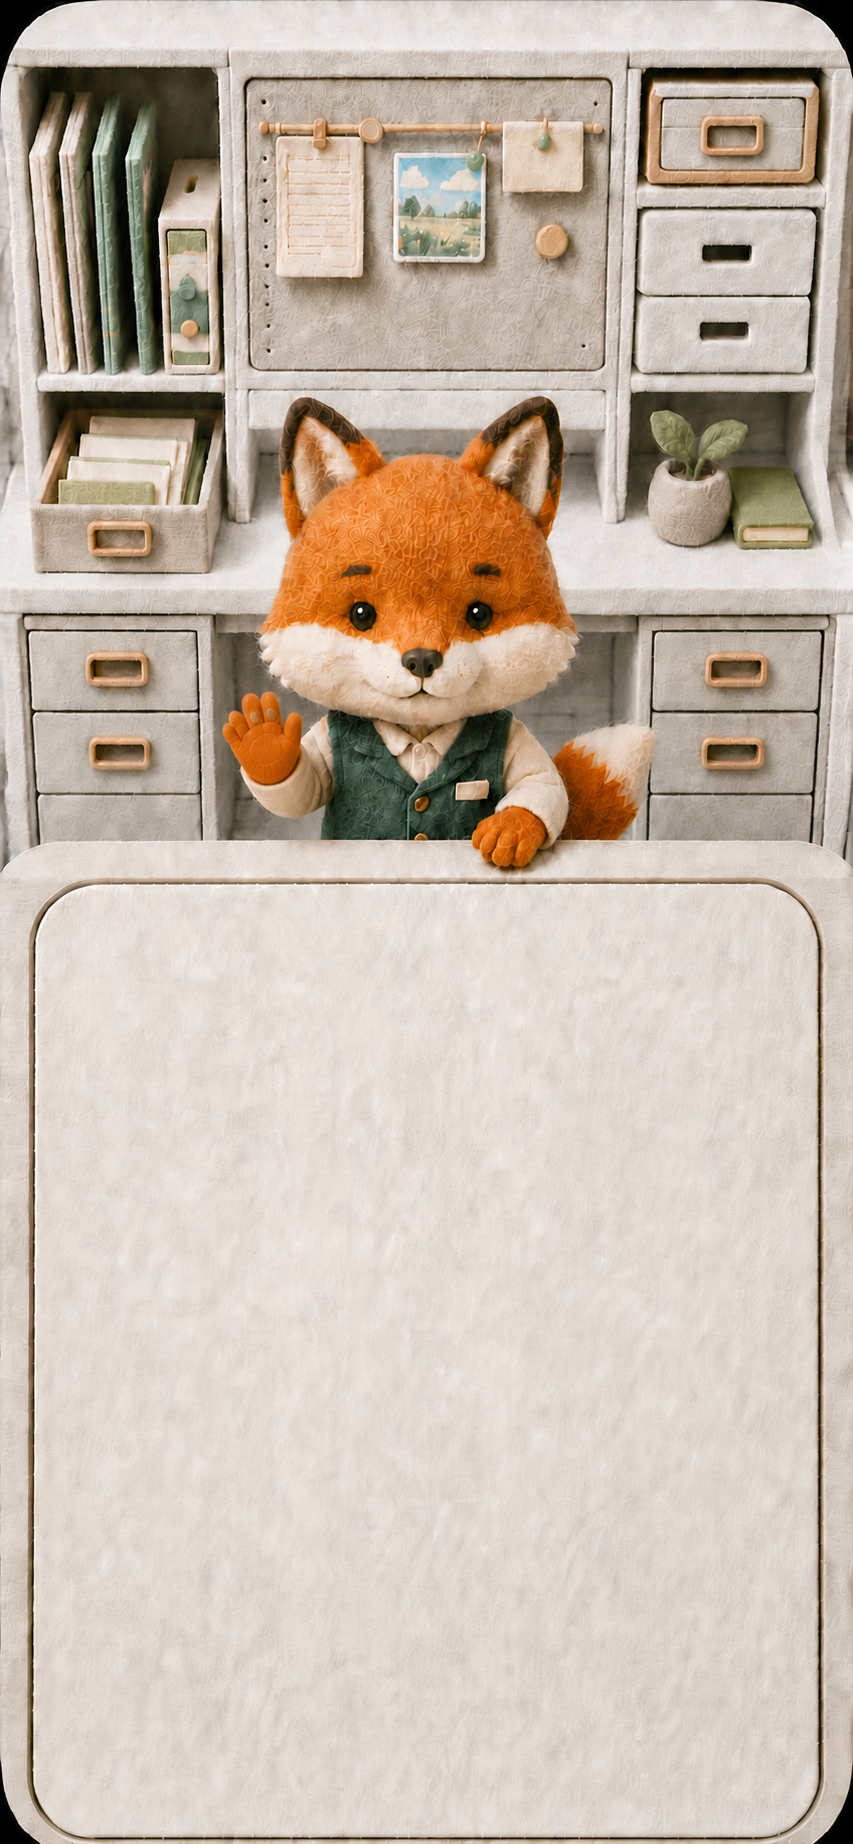
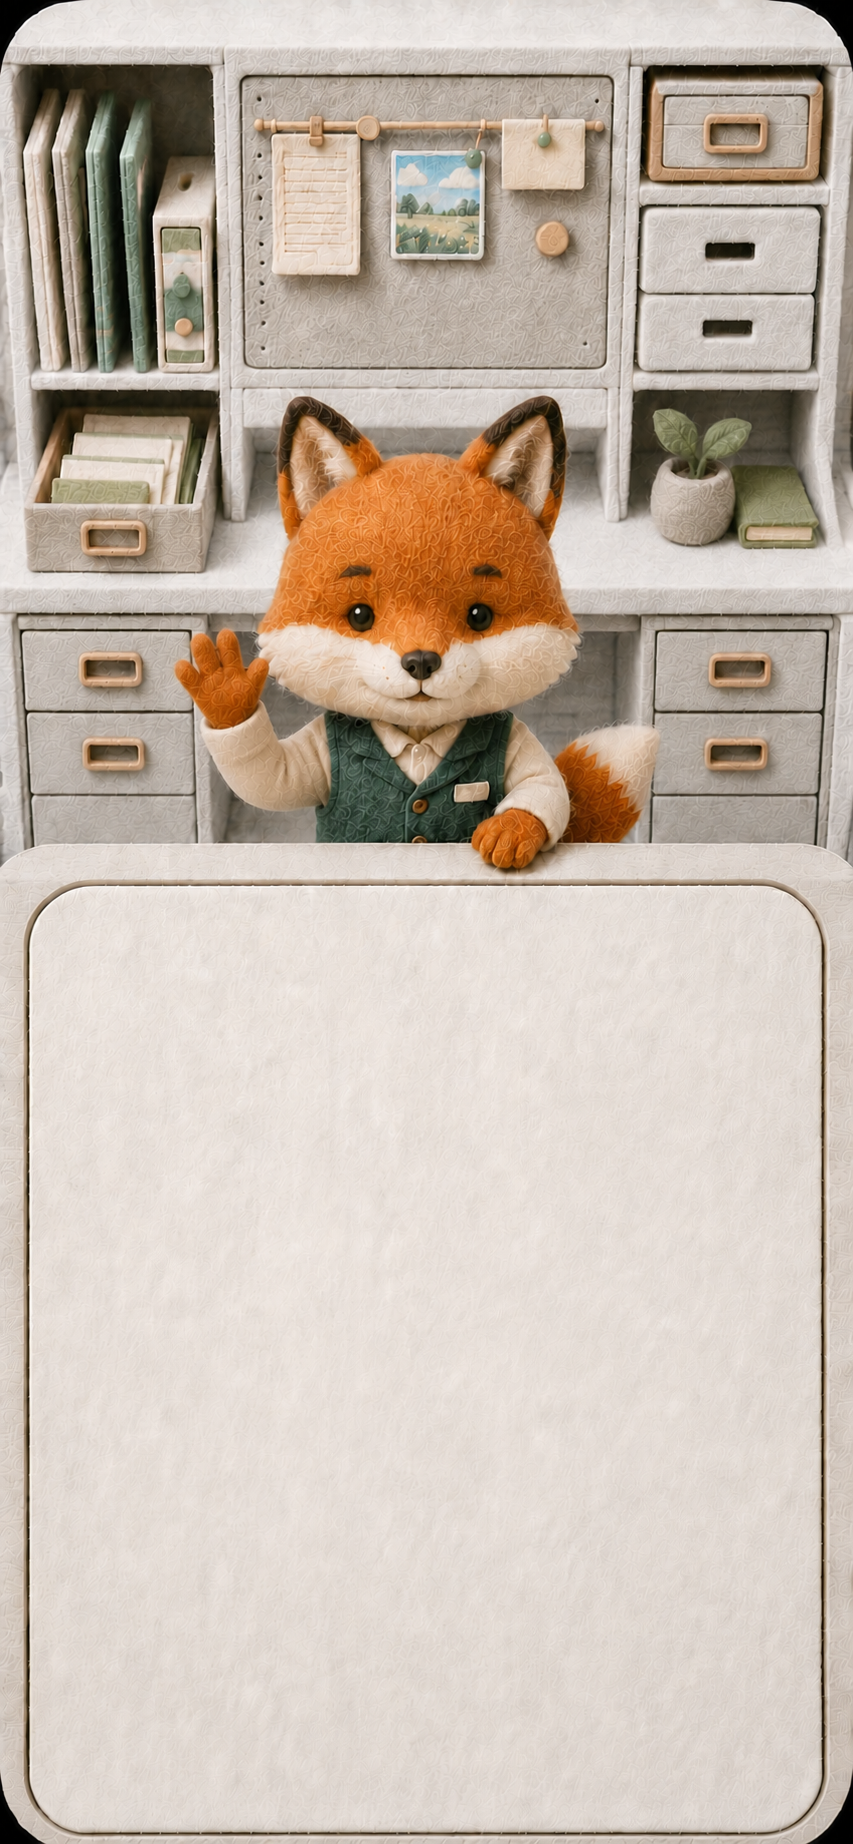
fix: smooth fox welcome animation and idle transitions

diff --git a/apps/miniprogram/miniprogram/lib/fox-animation-controller.ts b/apps/miniprogram/miniprogram/lib/fox-animation-controller.ts
@@ -1,6 +1,7 @@
 export const FOX_ACTION_ORDER = ['blink', 'talk', 'wave'] as const;
 
 export type FoxActionId = (typeof FOX_ACTION_ORDER)[number];
+export type FoxAnimationPhase = 'welcome' | 'idle' | 'action';
 
 export interface FoxAnimationClip {
   id: FoxActionId;
@@ -16,7 +17,7 @@ export interface FoxAnimationState {
   action: FoxAnimationClip;
   frame: number;
   playing: boolean;
-  autoCycle: boolean;
+  phase: FoxAnimationPhase;
 }
 
 export const FOX_ANIMATION_CLIPS: Record<FoxActionId, FoxAnimationClip> = {
@@ -42,62 +43,46 @@ export const FOX_ANIMATION_CLIPS: Record<FoxActionId, FoxAnimationClip> = {
     id: 'wave',
     name: '挥手',
     src: '/assets/animations/fox-clerk/wave.webp',
-    frameCount: 12,
+    frameCount: 15,
     columns: 4,
-    rows: 3,
+    rows: 4,
     fps: 5,
   },
 };
 
 type StateListener = (state: FoxAnimationState) => void;
 
-const ACTION_TRANSITION_PAUSE_MS = 420;
+const IDLE_BLINK_MIN_DELAY_MS = 18_000;
+const IDLE_BLINK_MAX_DELAY_MS = 35_000;
 
 /**
- * Owns which visual state is shown on the character screen.
+ * Drives the character's ambient behavior.
  *
- * The current policy cycles blink -> talk -> wave. Call `playAction` later
- * from an Agent event, voice state, or business state to take manual control.
+ * The default policy is a one-time welcome wave, a still neutral pose, and an
+ * occasional blink. Agent or voice events can call `playAction` at any time;
+ * after that one-shot action finishes, the fox returns to the same idle pose.
  */
 export class FoxAnimationController {
-  private actionIndex = 0;
+  private actionId: FoxActionId = 'wave';
   private frame = 0;
   private playing = false;
-  private autoCycle = true;
+  private phase: FoxAnimationPhase = 'welcome';
   private suspended = false;
   private timer: number | undefined;
 
   constructor(private readonly listener: StateListener) {}
 
+  startWelcomeSequence(): void {
+    this.startOneShot('wave', 'welcome');
+  }
+
+  /** Backward-compatible page entry; the behavior is no longer a cycle. */
   startAutoCycle(): void {
-    this.stopTimer();
-    this.autoCycle = true;
-    this.playing = true;
-    this.actionIndex = 0;
-    this.frame = 0;
-    this.emit();
-    this.scheduleNextFrame();
+    this.startWelcomeSequence();
   }
 
   playAction(action: FoxActionId): void {
-    this.stopTimer();
-    this.autoCycle = false;
-    this.playing = true;
-    this.actionIndex = FOX_ACTION_ORDER.indexOf(action);
-    this.frame = 0;
-    this.emit();
-    this.scheduleNextFrame();
-  }
-
-  togglePlayback(): void {
-    if (this.playing) {
-      this.pause();
-      return;
-    }
-
-    this.playing = true;
-    this.emit();
-    this.scheduleNextFrame();
+    this.startOneShot(action, 'action');
   }
 
   pause(): void {
@@ -113,7 +98,9 @@ export class FoxAnimationController {
 
   resume(): void {
     this.suspended = false;
-    if (this.playing && this.timer === undefined) this.scheduleNextFrame();
+    if (!this.playing || this.timer !== undefined) return;
+    if (this.phase === 'idle') this.scheduleIdleBlink();
+    else this.scheduleNextFrame();
   }
 
   destroy(): void {
@@ -122,16 +109,26 @@ export class FoxAnimationController {
   }
 
   private get clip(): FoxAnimationClip {
-    const actionId = FOX_ACTION_ORDER[this.actionIndex] ?? FOX_ACTION_ORDER[0];
-    return FOX_ANIMATION_CLIPS[actionId];
+    return FOX_ANIMATION_CLIPS[this.actionId];
   }
 
-  private scheduleNextFrame(delayMs = 1000 / this.clip.fps): void {
+  private startOneShot(action: FoxActionId, phase: FoxAnimationPhase): void {
+    this.stopTimer();
+    this.actionId = action;
+    this.frame = 0;
+    this.phase = phase;
+    this.playing = true;
+    this.emit();
+    this.scheduleNextFrame();
+  }
+
+  private scheduleNextFrame(): void {
     if (!this.playing || this.suspended) return;
-    this.timer = setTimeout(() => this.advance(), delayMs);
+    this.timer = setTimeout(() => this.advance(), 1000 / this.clip.fps);
   }
 
   private advance(): void {
+    this.timer = undefined;
     this.frame += 1;
 
     if (this.frame < this.clip.frameCount) {
@@ -140,16 +137,25 @@ export class FoxAnimationController {
       return;
     }
 
-    this.frame = 0;
-    if (this.autoCycle) {
-      this.actionIndex = (this.actionIndex + 1) % FOX_ACTION_ORDER.length;
-      this.emit();
-      this.scheduleNextFrame(ACTION_TRANSITION_PAUSE_MS);
-      return;
-    }
+    this.settleIdle();
+  }
 
+  private settleIdle(): void {
+    this.actionId = 'blink';
+    this.frame = 0;
+    this.phase = 'idle';
     this.emit();
-    this.scheduleNextFrame();
+    this.scheduleIdleBlink();
+  }
+
+  private scheduleIdleBlink(): void {
+    if (!this.playing || this.suspended) return;
+    const delay = IDLE_BLINK_MIN_DELAY_MS
+      + Math.random() * (IDLE_BLINK_MAX_DELAY_MS - IDLE_BLINK_MIN_DELAY_MS);
+    this.timer = setTimeout(() => {
+      this.timer = undefined;
+      this.startOneShot('blink', 'action');
+    }, delay);
   }
 
   private emit(): void {
@@ -157,7 +163,7 @@ export class FoxAnimationController {
       action: this.clip,
       frame: this.frame,
       playing: this.playing,
-      autoCycle: this.autoCycle,
+      phase: this.phase,
     });
   }
 

diff --git a/apps/miniprogram/miniprogram/pages/character/index.ts b/apps/miniprogram/miniprogram/pages/character/index.ts
@@ -14,11 +14,16 @@ Page({
   data: {
     environmentSrc: ENVIRONMENT_SRC,
     innerPanelSrc: INNER_PANEL_SRC,
-    spriteSrc: FOX_ANIMATION_CLIPS.blink.src,
-    sheetWidthPercent: FOX_ANIMATION_CLIPS.blink.columns * 100,
-    sheetHeightPercent: FOX_ANIMATION_CLIPS.blink.rows * 100,
-    sheetLeftPercent: 0,
-    sheetTopPercent: 0,
+    blinkSrc: FOX_ANIMATION_CLIPS.blink.src,
+    talkSrc: FOX_ANIMATION_CLIPS.talk.src,
+    waveSrc: FOX_ANIMATION_CLIPS.wave.src,
+    activeAction: 'wave' as FoxActionId,
+    blinkLeftPercent: 0,
+    blinkTopPercent: 0,
+    talkLeftPercent: 0,
+    talkTopPercent: 0,
+    waveLeftPercent: 0,
+    waveTopPercent: 0,
   },
 
   onLoad(): void {
@@ -43,11 +48,9 @@ Page({
     const column = state.frame % state.action.columns;
     const row = Math.floor(state.frame / state.action.columns);
     this.setData({
-      spriteSrc: state.action.src,
-      sheetWidthPercent: state.action.columns * 100,
-      sheetHeightPercent: state.action.rows * 100,
-      sheetLeftPercent: column * -100,
-      sheetTopPercent: row * -100,
+      activeAction: state.action.id,
+      [`${state.action.id}LeftPercent`]: column * -100,
+      [`${state.action.id}TopPercent`]: row * -100,
     });
   },
 

diff --git a/apps/miniprogram/tools/fox-clerk-stop-motion/build_sprites.py b/apps/miniprogram/tools/fox-clerk-stop-motion/build_sprites.py
@@ -4,7 +4,7 @@ from pathlib import Path
 import json
 import math
 
-from PIL import Image, ImageDraw, ImageFilter, ImageStat
+from PIL import Image, ImageChops, ImageDraw, ImageFilter, ImageStat
 
 
 HERE = Path(__file__).resolve().parent
@@ -53,17 +53,40 @@ def actor_mask(size: tuple[int, int], pose: str) -> Image.Image:
 
     if pose.startswith("wave"):
         # Each complete generated frame has its own full-character silhouette.
-        raised_arm = [
-            (326, 714), (294, 684), (255, 678), (218, 686), (184, 704),
-            (176, 744), (184, 783), (214, 817), (263, 839), (306, 826),
-            (332, 790), (337, 750),
-        ] if pose == "wave-left" else [
-            (319, 719), (300, 695), (283, 685), (267, 688), (248, 704),
-            (229, 716), (220, 741), (225, 774), (240, 807), (264, 824),
-            (294, 819), (318, 794), (330, 759),
-        ]
-        draw.polygon(points(raised_arm), fill=255)
-        hand_box = [(176, 678), (307, 790)] if pose == "wave-left" else [(219, 682), (307, 775)]
+        raised_arms = {
+            "wave-rise": [
+                (332, 714), (305, 718), (278, 733), (258, 742), (271, 719),
+                (275, 690), (258, 671), (235, 671), (220, 686), (202, 678),
+                (185, 697), (183, 730), (198, 756), (219, 768), (227, 797),
+                (250, 818), (282, 819), (311, 796), (330, 760),
+            ],
+            "wave-left": [
+            (331, 710), (298, 693), (260, 696), (230, 690), (241, 665),
+            (238, 625), (220, 609), (202, 620), (185, 598), (159, 590),
+            (142, 612), (140, 651), (162, 686), (185, 700), (198, 738),
+            (218, 772), (252, 787), (286, 772), (309, 745),
+            ],
+            "wave-right": [
+            (331, 716), (305, 704), (278, 704), (262, 697), (269, 674),
+            (257, 642), (236, 631), (214, 638), (192, 628), (177, 644),
+            (176, 678), (189, 706), (207, 720), (211, 756), (229, 788),
+            (260, 805), (292, 792), (315, 761),
+            ],
+            "wave-lower": [
+                (331, 716), (310, 723), (288, 743), (280, 735), (292, 714),
+                (282, 696), (257, 702), (244, 716), (224, 711), (207, 726),
+                (205, 756), (220, 781), (240, 791), (249, 814), (276, 829),
+                (306, 818), (328, 787),
+            ],
+        }
+        hand_boxes = {
+            "wave-rise": [(179, 665), (282, 795)],
+            "wave-left": [(136, 585), (245, 710)],
+            "wave-right": [(172, 624), (273, 735)],
+            "wave-lower": [(200, 695), (300, 815)],
+        }
+        draw.polygon(points(raised_arms[pose]), fill=255)
+        hand_box = hand_boxes[pose]
         draw.ellipse((*points(hand_box)[0], *points(hand_box)[1]), fill=255)
 
     # Outer board layer. The fixed inner panel is punched out below.
@@ -82,6 +105,25 @@ def actor_frame(image: Image.Image, pose: str) -> Image.Image:
     result = image.copy()
     result.putalpha(actor_mask(image.size, pose))
     return result
+
+
+def keep_only_wave_motion(image: Image.Image, reference: Image.Image, pose: str) -> Image.Image:
+    """Lock the face, body, and board while retaining the generated moving arm."""
+    size = image.size
+    sx, sy = size[0] / 853, size[1] / 1844
+
+    # The raised appendage lives outside the neutral silhouette. The shoulder
+    # patch also replaces the original resting paw so it cannot appear twice.
+    raised_appendage = ImageChops.subtract(actor_mask(size, pose), actor_mask(size, "neutral"))
+    shoulder_patch = Image.new("L", size)
+    ImageDraw.Draw(shoulder_patch).rounded_rectangle(
+        (round(235 * sx), round(695 * sy), round(390 * sx), round(880 * sy)),
+        radius=round(46 * sx),
+        fill=255,
+    )
+    motion_mask = ImageChops.lighter(raised_appendage, shoulder_patch)
+    motion_mask = motion_mask.filter(ImageFilter.GaussianBlur(round(5 * sx)))
+    return Image.composite(image, reference, motion_mask)
 
 
 def keep_only_mouth(image: Image.Image, reference: Image.Image) -> Image.Image:
@@ -133,7 +175,7 @@ def write_sheet(frames: list[Image.Image], action: str, columns: int = 4) -> dic
         "description": {
             "blink": "狐狸层切换睁眼、半闭和闭眼姿态；环境与白框保持静止",
             "talk": "整张狐狸与板子完全固定，只切换嘴部口型，消除脸部纹理闪动",
-            "wave": "完整全画幅姿态统一曝光后慢速摆动；四指纯橙色毛毡手保持不变",
+            "wave": "固定狐狸身体与板子，仅让四指纯橙色毛毡手臂完成抬手、慢速摆动和收手",
         }[action],
         "src": f"/animations/fox-clerk/{action}.webp",
         "frameCount": len(frames),
@@ -156,8 +198,18 @@ def main() -> None:
         "blink-closed": normalized_image("blink-closed.png", size),
         "talk-quiet": keep_only_mouth(normalized_image("talk-quiet.png", size), neutral),
         "talk-a": keep_only_mouth(normalized_image("talk-a.png", size), neutral),
-        "wave-left": match_full_frame_lighting(normalized_image("wave-left.png", size), neutral),
-        "wave-right": match_full_frame_lighting(normalized_image("wave-right.png", size), neutral),
+        "wave-rise": keep_only_wave_motion(
+            match_full_frame_lighting(normalized_image("wave-rise.png", size), neutral), neutral, "wave-rise",
+        ),
+        "wave-left": keep_only_wave_motion(
+            match_full_frame_lighting(normalized_image("wave-left.png", size), neutral), neutral, "wave-left",
+        ),
+        "wave-right": keep_only_wave_motion(
+            match_full_frame_lighting(normalized_image("wave-right.png", size), neutral), neutral, "wave-right",
+        ),
+        "wave-lower": keep_only_wave_motion(
+            match_full_frame_lighting(normalized_image("wave-lower.png", size), neutral), neutral, "wave-lower",
+        ),
     }
     actor = {name: actor_frame(image, name) for name, image in poses.items()}
 
@@ -180,10 +232,13 @@ def main() -> None:
         actor["talk-a"], actor["talk-quiet"], actor["neutral"], actor["neutral"], actor["neutral"],
     ]
     wave_frames = [
+        actor["wave-rise"],
         actor["wave-left"], actor["wave-left"], actor["wave-left"],
         actor["wave-right"], actor["wave-right"], actor["wave-right"],
         actor["wave-left"], actor["wave-left"], actor["wave-left"],
         actor["wave-right"], actor["wave-right"], actor["wave-right"],
+        actor["wave-lower"],
+        actor["neutral"],
     ]
 
     animations = [
@@ -192,7 +247,7 @@ def main() -> None:
         write_sheet(wave_frames, "wave"),
     ]
     manifest = {
-        "version": 3,
+        "version": 6,
         "character": "fox-clerk",
         "style": "needle-felt stop-motion",
         "frameMode": "three-layer",
@@ -202,7 +257,8 @@ def main() -> None:
             "actorBoard": {"name": "狐狸 + 外板", "kind": "animated-sprite"},
             "innerPanel": {"name": "内层白框", "src": "/animations/fox-clerk/inner-panel.webp"},
         },
-        "backgroundPolicy": "背景环境、狐狸 + 外板、内层白框使用同尺寸画布独立叠放；白框永远保持固定坐标",
+        "backgroundPolicy": "背景环境、固定狐狸身体 + 外板、运动手臂、内层白框使用锁定画布叠放；白框永远保持固定坐标",
+        "playbackPolicy": "首次进入播放一次挥手问候，随后保持静止，并以较长随机间隔偶发眨眼",
         "animations": animations,
     }
     (OUTPUT / "manifest.json").write_text(

diff --git a/README.md b/README.md
@@ -38,7 +38,7 @@ API 默认监听 `http://127.0.0.1:3000`：
 - `GET /api/v1/health`：健康检查
 - `POST /api/v1/chat/completions`：等待模型完成后返回完整回复
 
-将 `apps/miniprogram` 导入微信开发者工具即可运行小程序。默认首页是全屏狐狸动画场景，会依次循环播放眨眼、说话和挥手；页面不显示额外控件，业务代码可通过动画控制器切换动作。Agent 对话页仍保留为独立调试页。开发阶段需要在开发者工具中关闭域名校验；发布前把 `app.ts` 的地址替换为已备案 HTTPS 域名并加入小程序 request 合法域名。
+将 `apps/miniprogram` 导入微信开发者工具即可运行小程序。默认首页是全屏狐狸动画场景：首次进入会挥手问候一次，随后保持伏案静止，并以较长随机间隔偶发眨眼。页面不显示额外控件，业务代码可通过动画控制器触发一次性动作。Agent 对话页仍保留为独立调试页。开发阶段需要在开发者工具中关闭域名校验；发布前把 `app.ts` 的地址替换为已备案 HTTPS 域名并加入小程序 request 合法域名。
 
 ## 对话接口
 
